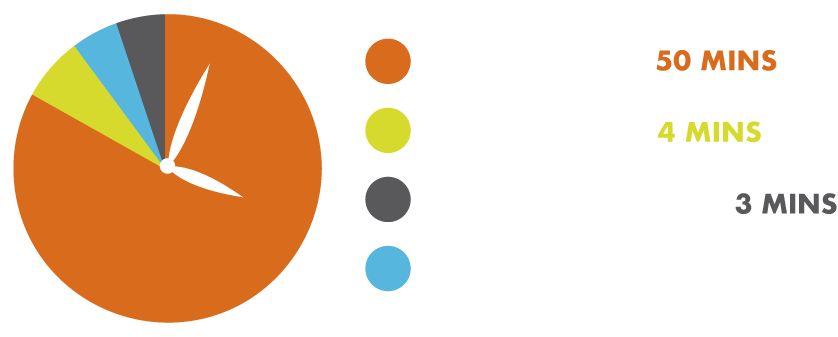
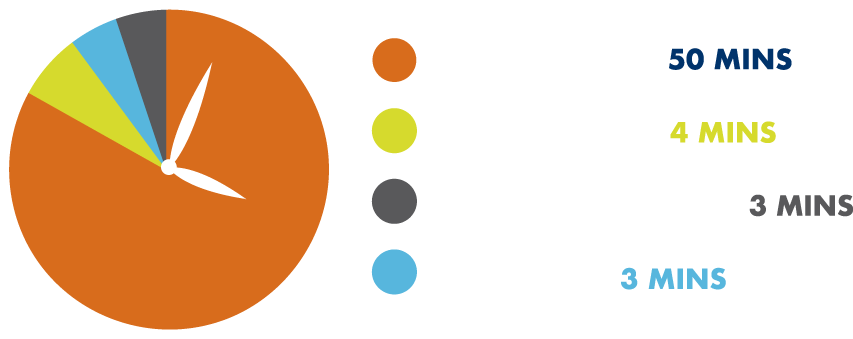
finished MSE page

diff --git a/resources/css/engagement.css b/resources/css/engagement.css
@@ -132,6 +132,12 @@ p, ol, li {
   }
 }
 
+@media only screen and (max-width: 547px) {
+  .engagement-why-text {
+    padding: 1.5rem;
+  }
+}
+
 
 /* Establishing Routines */
 .routines {
@@ -195,7 +201,22 @@ p, ol, li {
   .routines .blueheader,
   .routines-container {
     padding-left: 3rem;
-    padding-right: 3rem;
+    padding-right: 2rem;
+  }
+}
+
+@media only screen and (max-width: 808px) {
+  .routines-container img {
+    display: none;
+  }
+}
+
+@media only screen and (max-width: 547px) {
+  .routines .blueheader {
+    padding: 1.5rem 1.5rem 1rem 1.5rem;
+  }
+  .routines-container {
+    padding: 0rem 1.5rem 1.5rem 1.5rem;
   }
 }
 
@@ -244,21 +265,56 @@ p, ol, li {
   .instructions-container {
     padding-left: 0;
   }
+
+  .instructions-left {
+    width: 40%;
+  }
   .instructions-left img {
     display: none;
   }
   #teacher-mob {
-    display: flex;
+    display:inline;
     padding-right: 1rem;
+    margin-bottom: -2px;
   }
   .instructions-right {
-    width: 75%;
+    width: 60%;
   }
 }
 
-@media only screen and (max-width: 871px) {
+@media only screen and (max-width: 1064px) {
+  .instructions-left {
+    width: 45%;
+  }
+  .instructions-right {
+    width: 55%;
+  }
+}
+
+@media only screen and (max-width: 950px) {
   .instructions-container {
+    align-items: flex-end;
+  }
+  .instructions-left {
+    width: 50%;
+  }
+  .instructions-right {
+    align-self: center;
+    width: 50%;
     padding-right: 3rem;
+  }
+}
+
+@media only screen and (max-width: 856px) {
+  .instructions-container {
+    padding: 1.5rem;
+  }
+  .instructions-left {
+    display: none;
+  }
+  .instructions-right {
+    width: 100%;
+    padding-right: 0;
   }
 }
 
@@ -295,26 +351,30 @@ p, ol, li {
 
 strong {
   font-weight: bolder;
-  font-size: 1.2rem;
 }
 
-#orange {
+.orange {
   color: #E76E34;
   font-weight: bold;
 }
 
-#green {
+.green {
   color: #BED63A;
   font-weight: bold;
 }
 
-#grey {
+.grey {
   color: #59595B;
   font-weight: bold;
 }
 
-#purple {
-  color: purple;
+.navy {
+  color: #00336B;
+  font-weight: bold;
+}
+
+.lightblue {
+  color: #57B6DD;
   font-weight: bold;
 }
 
@@ -341,6 +401,18 @@ strong {
   .progression-container {
     padding-left: 3rem;
     padding-right: 3rem;
+  }
+}
+
+@media only screen and (max-width: 856px) {
+  .progression-container {
+    padding: 1.5rem;
+  }
+  .progression-left {
+    width: 100%;
+  }
+  .progression-right {
+    display: none;
   }
 }
 
@@ -355,14 +427,26 @@ strong {
   display: flex;
   justify-content: space-between;
   padding: 3rem 7rem 2rem 9rem;
+  align-items: flex-start;
 }
 
 .conclusion-left {
   width: 60%;
+  align-self: center;
 }
 
-.conclusion-left img {
+#clock-desk {
   height: 16rem;
+}
+
+#clock-mob {
+  display: none;
+}
+#clock-tab {
+  display: none;
+}
+#tablet-text {
+  display: none;
 }
 
 .conclusion-right {
@@ -375,23 +459,73 @@ strong {
   margin-top: 1rem;
 }
 
-@media only screen and (max-width: 1150px) {
+@media only screen and (max-width: 1367px) {
   .conclusion-container {
     padding-left: 5rem;
+    }
+  }
+
+@media only screen and (max-width: 1308px) {
+  .conclusion-container {
     padding-right: 5rem;
+  }
+  .conclusion-left {
+    width: 50%;
+  }
+  #clock-desk {
+    height: 13.5rem;
+  }
+  .conclusion-right {
+    width: 50%;
+  }
+}
+
+@media only screen and (max-width: 1267px) {
+  #clock-desk {
+    height: 12rem;
+  }
+}
+
+@media only screen and (max-width: 1155px) {
+  .conclusion-container {
+    align-items: center;
+  }
+  .conclusion-left {
+    width: 45%;
+  }
+  #clock-desk {
+    height: 10rem;
+  }
+  .conclusion-right {
+    width: 55%;
   }
 }
 
 @media only screen and (max-width: 1074px) {
-  .conclusion-left img {
-    padding-top: 1.5rem;
+  .conclusion-container {
+    align-items: flex-start;
   }
-}
+  .conclusion-left {
+    width: 30%;
+  }
+  #clock-desk {
+    display: none;
+  }
+  #clock-tab {
+    display: flex;
+    height: 12rem;
+    padding-top: 0;
+  }
 
-@media only screen and (max-width: 990px) {
-  .conclusion-left img {
-    padding-top: 2rem;
+  #tablet-text {
+    display: block;
+    background-color: white;
+    color: grey;
+    padding: 0.5rem;
   }
+  .conclusion-right{
+    width: 70%;
+    }
 }
 
 @media only screen and (max-width: 871px) {
@@ -401,6 +535,66 @@ strong {
   }
 }
 
+@media only screen and (max-width: 856px) {
+  .conclusion-left {
+    width: 35%;
+  }
+  .conclusion-right {
+    width: 65%;
+  }
+}
+
+@media only screen and (max-width: 714px) {
+  .conclusion-container {
+    display: flex;
+    flex-direction: column;
+    padding: 1.5rem;
+
+  }
+  .conclusion-left {
+    width: 100%;
+    order: 2;
+  }
+  #clock-desk {
+    display: block;
+    height: 13rem;
+    margin: 1rem auto;
+  }
+  #clock-tab {
+    display: none;
+  }
+  #tablet-text {
+    display: none;
+  }
+  .conclusion-right {
+    width: 100%;
+    margin-left: 0;
+    order: 1;
+  }
+}
+
+@media only screen and (max-width: 613px) {
+  #clock-desk {
+    height: 11rem;
+  }
+}
+
+@media only screen and (max-width: 510px) {
+  #clock-desk {
+    height: 9rem;
+  }
+}
+
+@media only screen and (max-width: 433px) {
+  #clock-desk {
+    display: none;
+  }
+  #clock-mob {
+    display: block;
+    margin: 1rem auto;
+    height: 20rem;
+  }
+}
 
 /* References */
 .references {

diff --git a/maximising-student-engagement.html b/maximising-student-engagement.html
@@ -94,7 +94,7 @@
       <div class="progression-container">
         <div class="progression-left">
           <img src="./resources/images/MSE/PlanningForProgression-Box.png" class="blueheader" alt="Planning for Progression"/>
-          <p>Another important element for maximizing pupils learning time and behavior is planning for <strong>progression</strong>. A good PE lesson should have a balance of <span id="orange">individual</span>, <span id="green">cooperative</span> and <span id="grey">competitive</span> activities with appropriate progression through tasks [<a href="#ref1">1</a>, <a href="#ref4">4</a>]. This requires effective pacing by deciding what is considered sufficient time for pupils to make progress without getting bored [<a href="#ref1">1</a>]. This could be anywhere from 3-15 minutes depending upon the activity and the age of students (for longer activities, <span id="purple">ensure that extension tasks are ready for students</span>).</p>
+          <p>Another important element for maximizing pupils learning time and behavior is planning for <strong>progression</strong>. A good PE lesson should have a balance of <span class="orange">individual</span>, <span class="green">cooperative</span> and <span class="grey">competitive</span> activities with appropriate progression through tasks [<a href="#ref1">1</a>, <a href="#ref4">4</a>]. This requires effective pacing by deciding what is considered sufficient time for pupils to make progress without getting bored [<a href="#ref1">1</a>]. This could be anywhere from 3-15 minutes depending upon the activity and the age of students (for longer activities, <span class="navy">ensure that extension tasks are ready for students</span>).</p>
         </div>
         <div class="progression-right">
           <img src="./resources/images/MSE/Cubes.png" alt="cubes built on top of each other forming steps"/>
@@ -106,11 +106,14 @@
     <div class="conclusion">
       <div class="conclusion-container">
         <div class="conclusion-left">
-          <img src="./resources/images/MSE/SegmentsClockPlus-words.png" alt="clock recommeding how much time should be spend on each activity: Student activity 50 mins; Demonstrations 4 mins; Question and Answer 3 mins; Teacher talk 3 mins"/>
+          <img src="./resources/images/MSE/SegmentsClockPlus-words.png" id="clock-desk" alt="clock recommending how much time should be spend on each activity: Student activity 50 mins; Demonstrations 4 mins; Question and Answer 3 mins; Teacher talk 3 mins"/>
+          <img src="./resources/images/MSE/ClockAndKey.png" id="clock-mob" alt="clock recommending how much time should be spend on each activity: Student activity 50 mins; Demonstrations 4 mins; Question and Answer 3 mins; Teacher talk 3 mins"/>
+          <img src="./resources/images/MSE/Clock.png" id="clock-tab" alt="clock recommending how much time should be spend on each activity: Student activity 50 mins; Demonstrations 4 mins; Question and Answer 3 mins; Teacher talk 3 mins"/>
         </div>
         <div class="conclusion-right">
           <img src="./resources/images/MSE/Conclusion-Box.png" class="blueheader" alt="Conclusion"/>
           <p>Maximising learning time can always be improved even by the most experienced PE teacher and will evolve like the ever-changing face of our students. Yet it is advantageous to continually reflect on our teaching and identify situations where a different approach may have worked better [<a href="#ref3">3</a>].</p>
+          <p id="tablet-text">Student activity <span class="orange">50 mins</span>; Demonstrations <span class="green">4 mins</span>; Question and answer <span class="grey">3mins</span>; Teacher talk <span class="lightblue">3 mins</span></p>
         </div>
       </div>
     </div>
